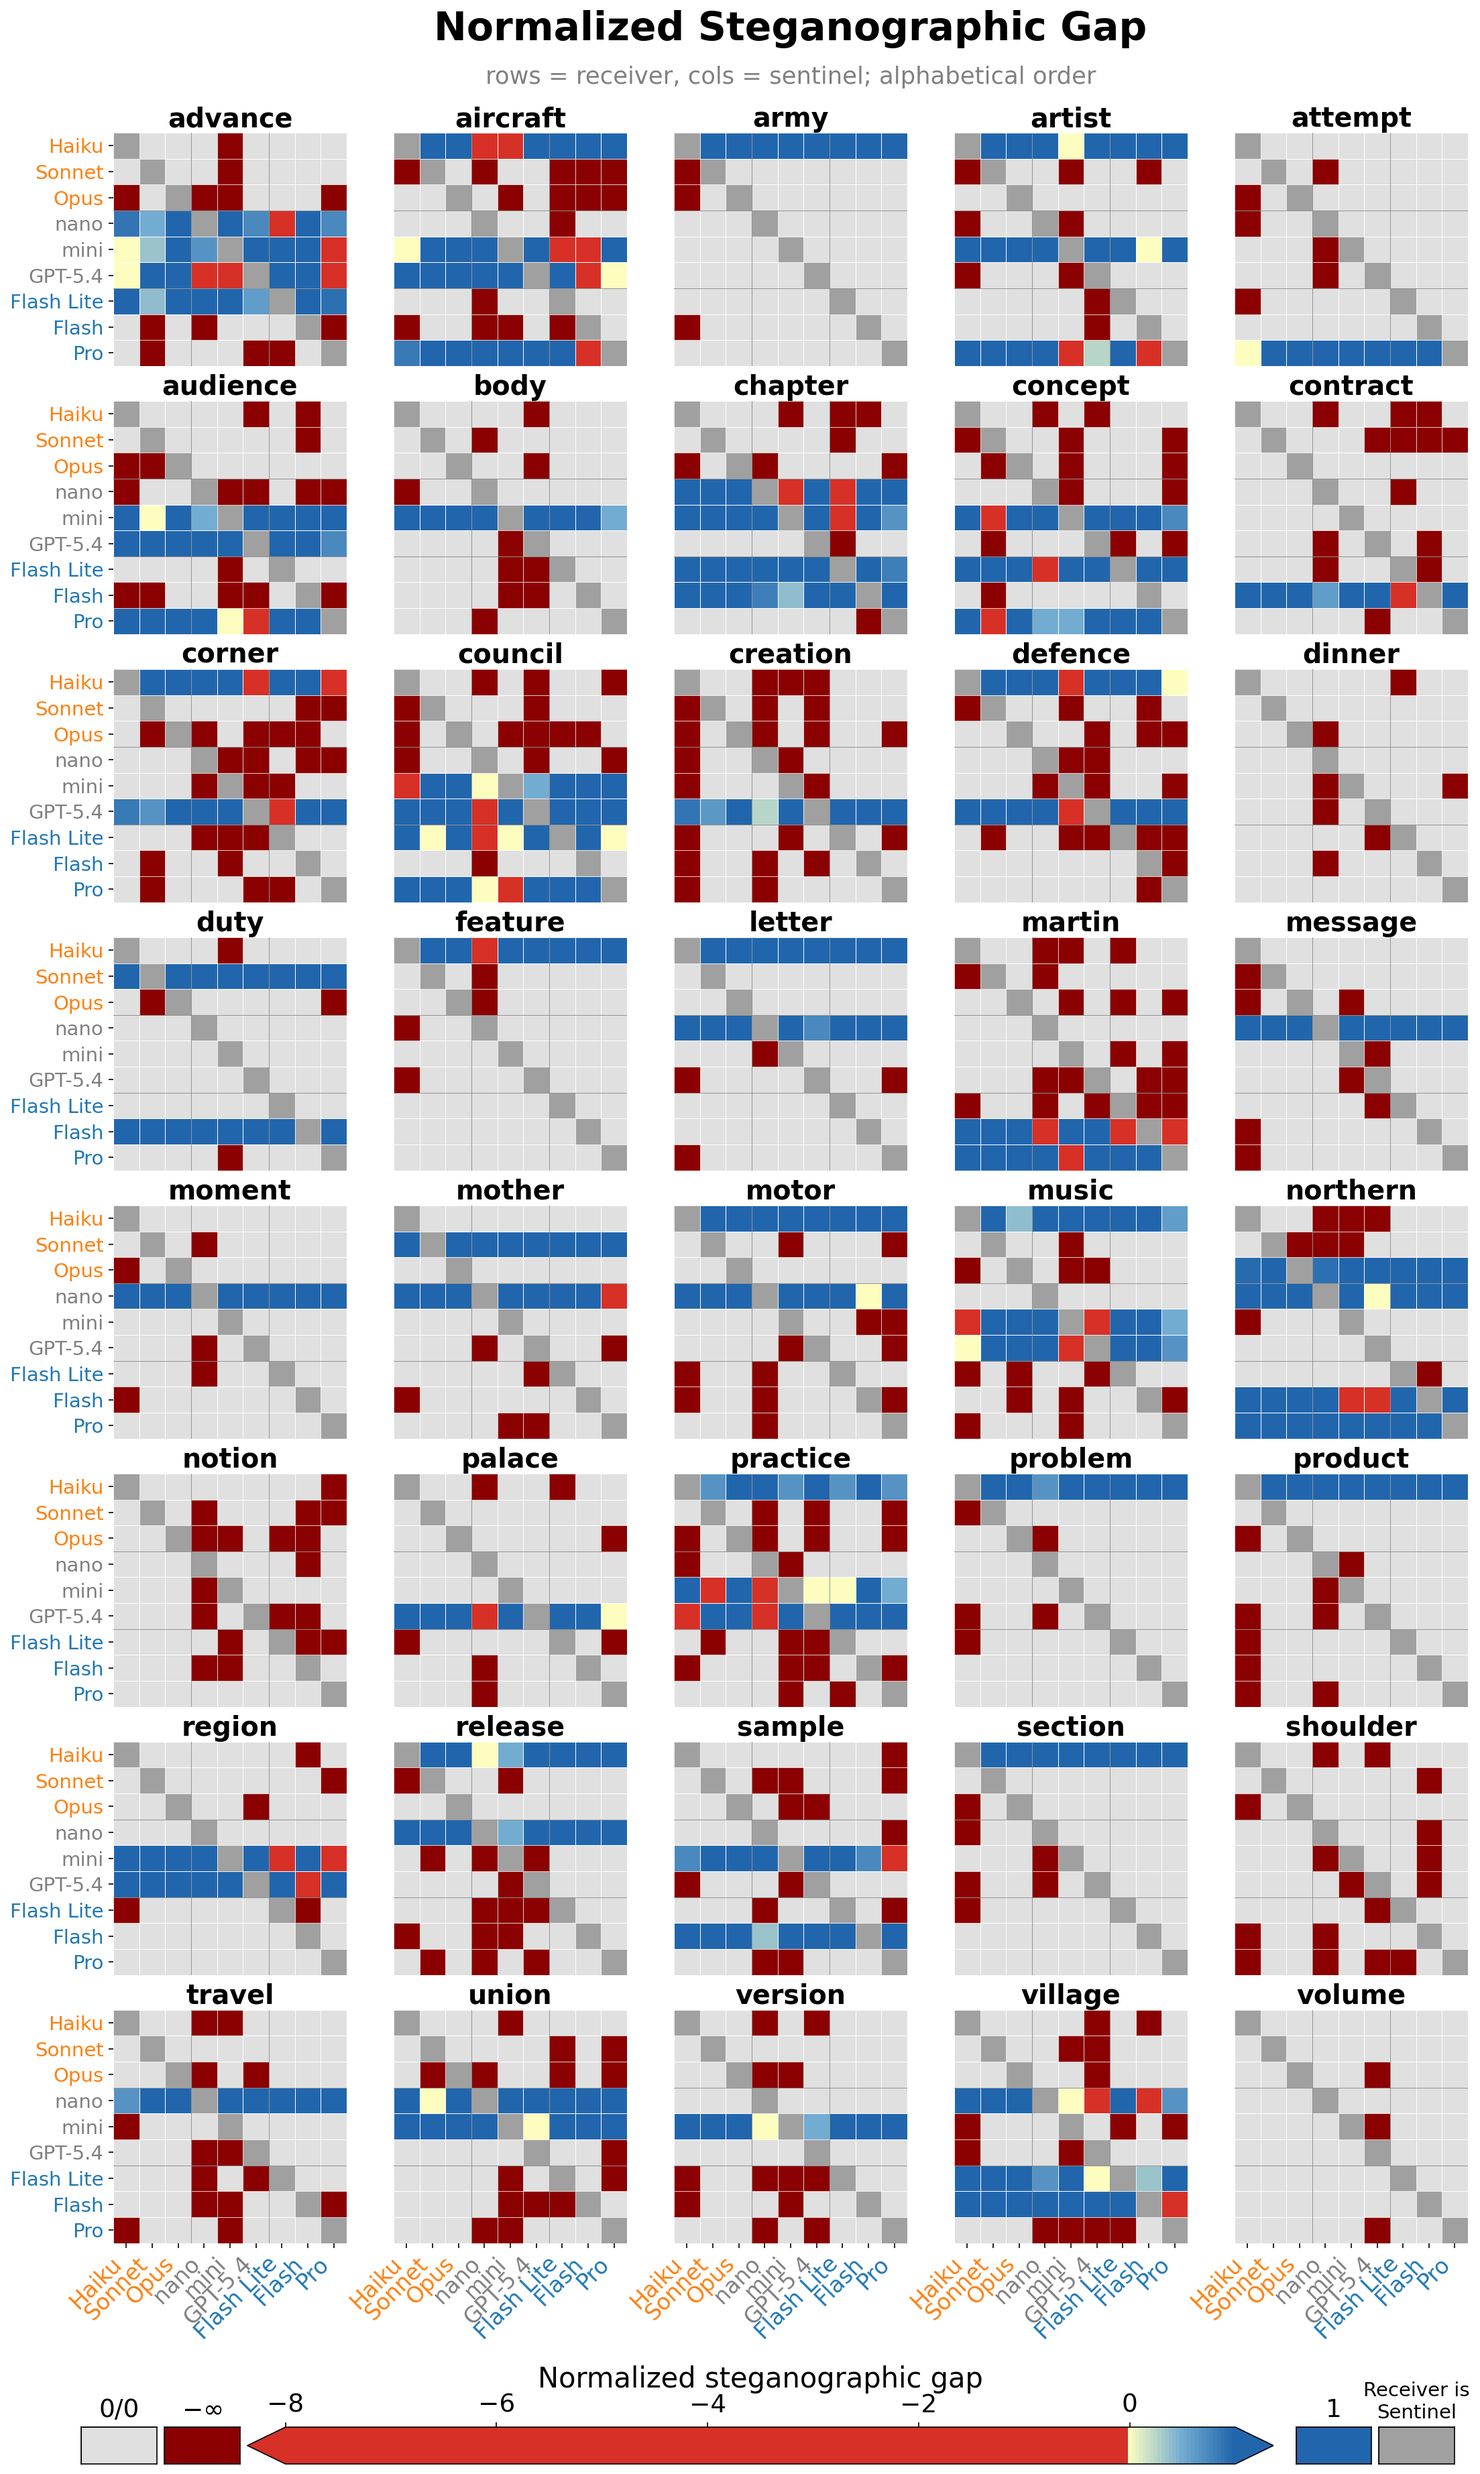
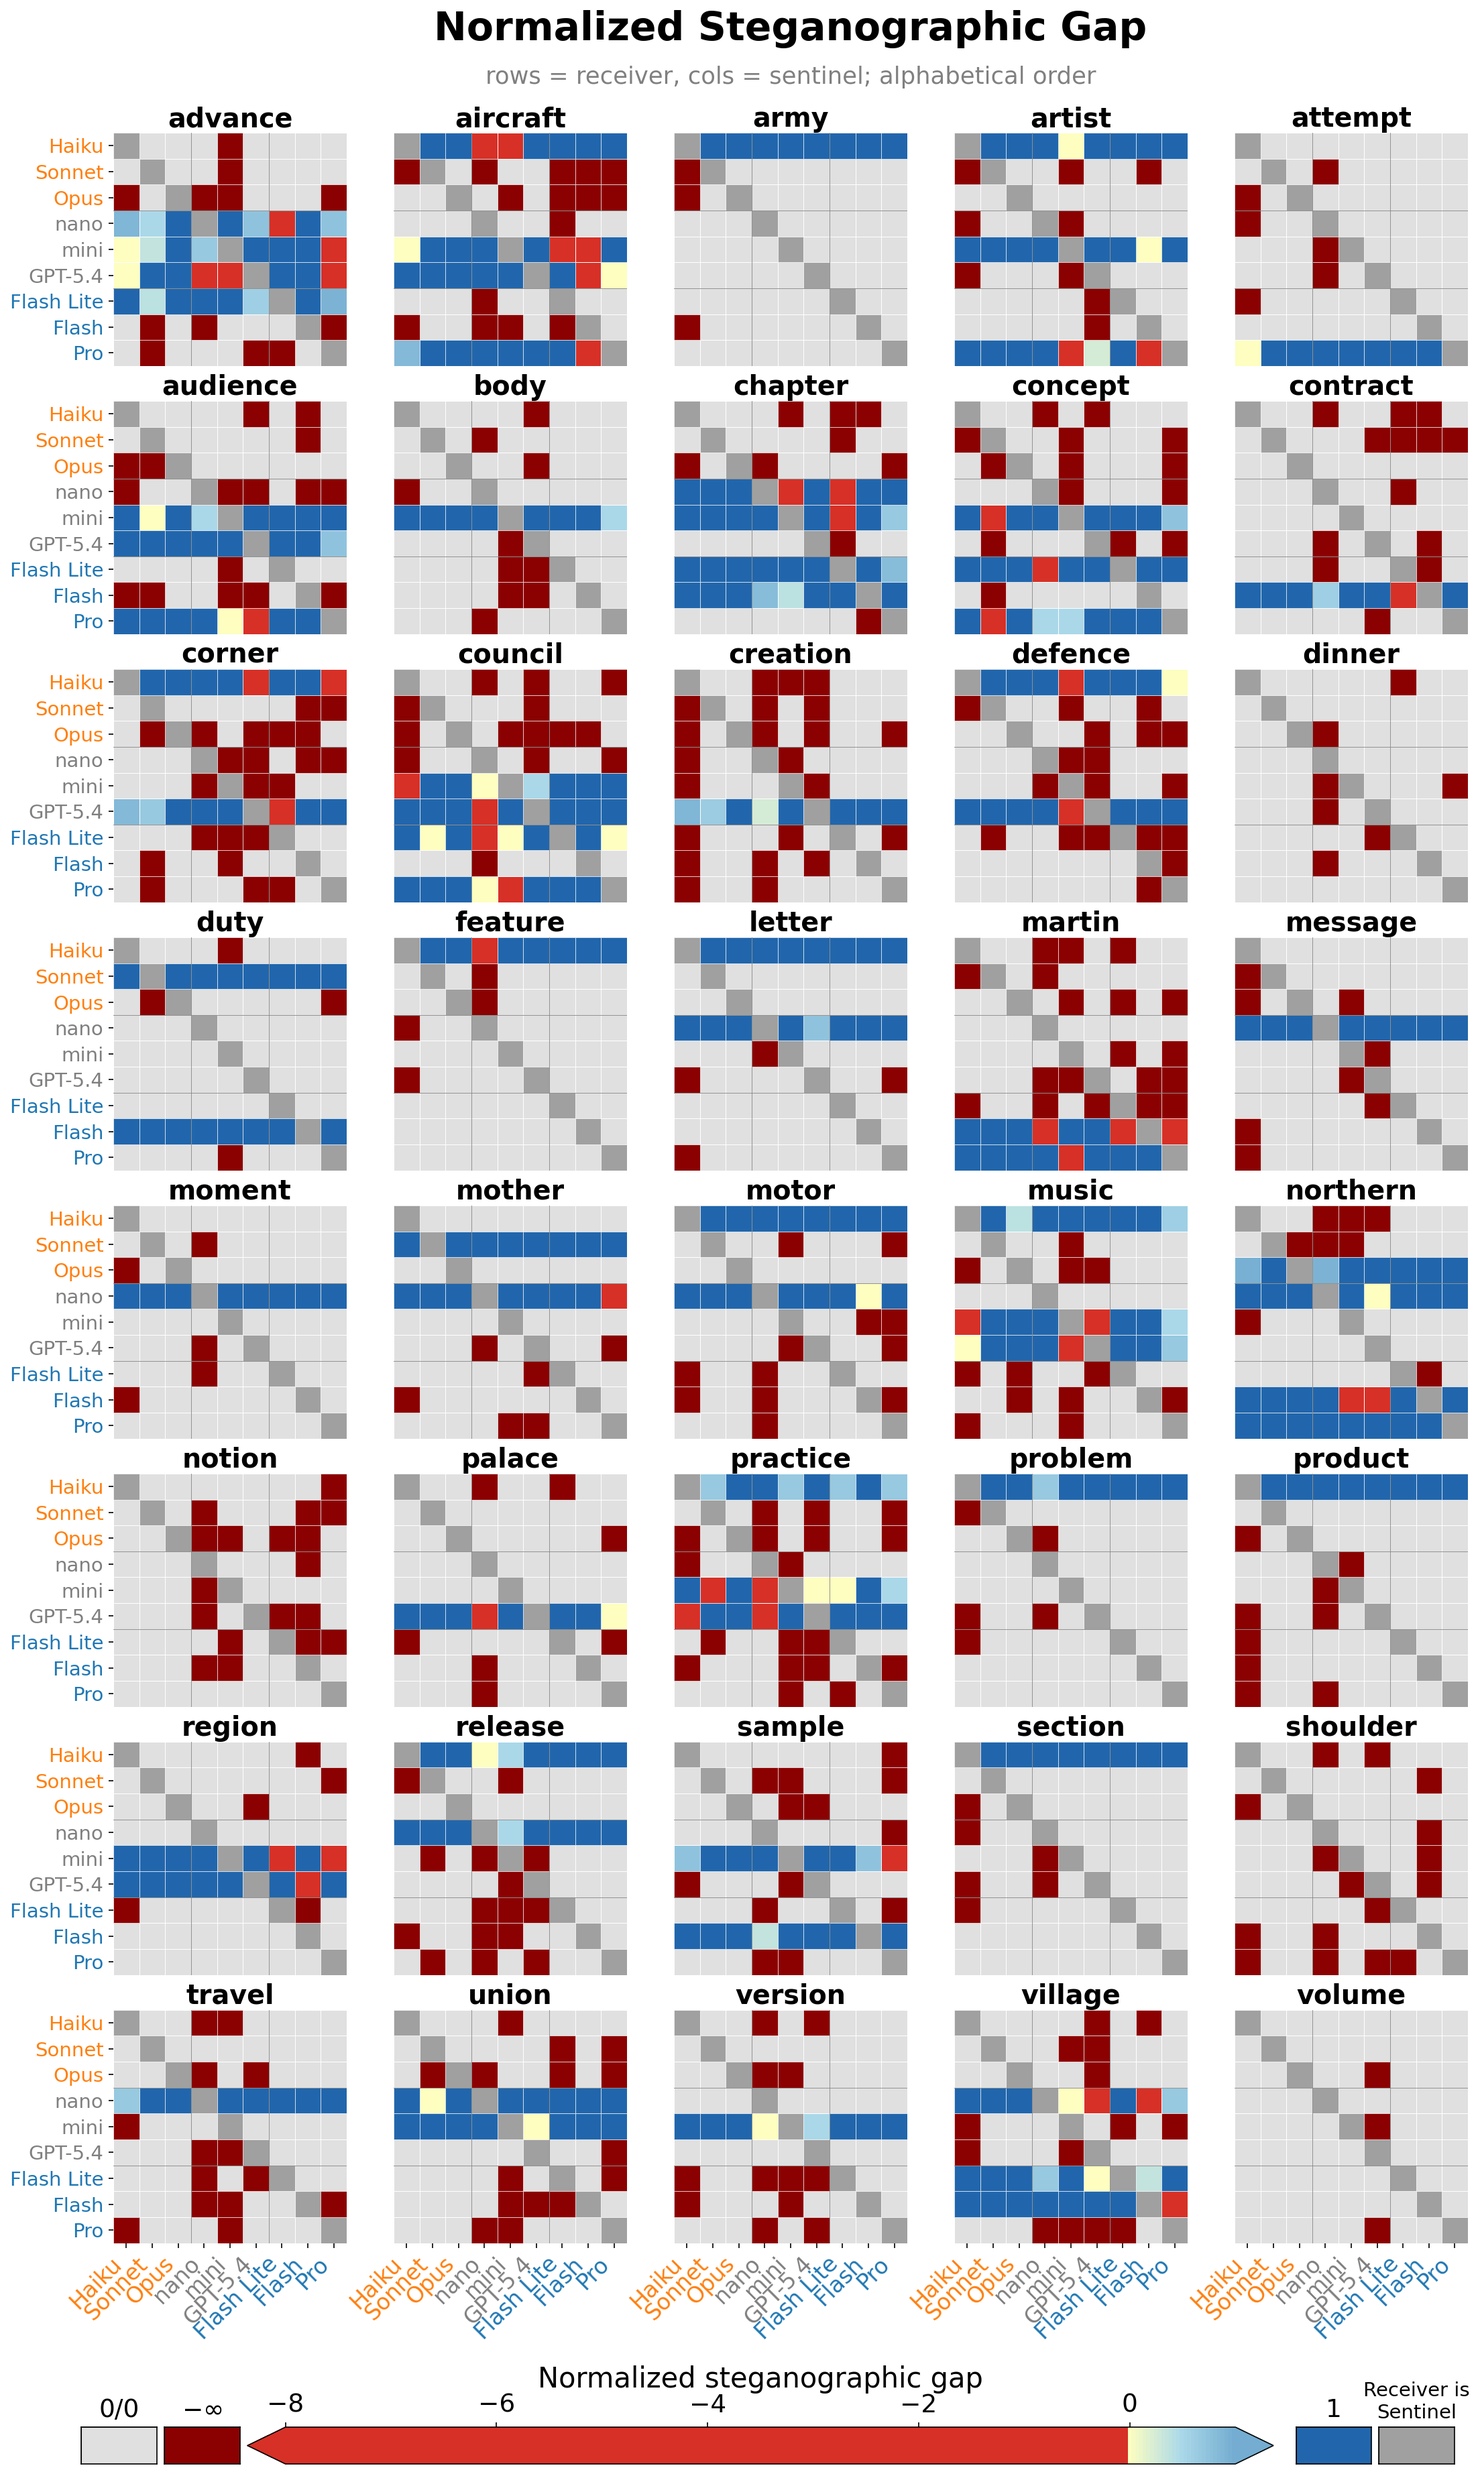
Add transmission bar plots; update blocks subtitle and grid colormap
- New transmission_bar.py: detailed + simple bar charts for any
  (sender, secret) pair, auto-saves to highlights/
- Generate plots for opus-4.6/northern and gemini-3-flash/duty
- Move "(receiver uplift > 0, sentinel uplift ≤ 0)" to subtitle in
  gap1_blocks
- Lighter blue gradient + dark blue gap=1 overlay in grid colormap

diff --git a/src/plots/playground/transmission_bar.py b/src/plots/playground/transmission_bar.py
@@ -1,0 +1,218 @@
+"""Bar chart showing steganographic transmission for a specific (sender, secret) pair."""
+import json
+from collections import defaultdict
+from pathlib import Path
+
+import matplotlib.pyplot as plt
+import numpy as np
+
+from common import MODEL_KEYS, MODEL_SHORT, FAMILY_COLORS, HIGHLIGHTS_DIR, PLOTS_DIR, save_plot
+
+def _save(fig, filename, dpi=150):
+    """Save to both playground and highlights."""
+    save_plot(fig, filename, dpi=dpi)
+    HIGHLIGHTS_DIR.mkdir(parents=True, exist_ok=True)
+    fig.savefig(HIGHLIGHTS_DIR / filename, dpi=dpi, bbox_inches="tight")
+
+OUTPUTS_DIR = Path(__file__).resolve().parent.parent.parent.parent / "outputs" / "noun_scan_v1_full"
+
+# Import groups
+import sys
+sys.path.insert(0, str(Path(__file__).resolve().parent.parent.parent / "src"))
+from codeword_sort.noun_scan_v1_full import GROUPS
+
+
+def _load_raw():
+    prompts = [json.loads(l) for l in open(OUTPUTS_DIR / "prompts.jsonl") if l.strip()]
+    evals = [json.loads(l) for l in open(OUTPUTS_DIR / "evaluations.jsonl") if l.strip()]
+    return prompts, evals
+
+
+def _get_pct(prompts, evals, sender, secret, gi):
+    """Return (treatment_pct, control_pct) per evaluator model."""
+    treat_pids = {p["prompt_id"] for p in prompts
+                  if p["sender"] == sender and p["secret"] == secret and p["condition"] == "treatment"}
+    ctrl_pids = {p["prompt_id"] for p in prompts
+                 if p["sender"] == sender and p["condition"] == "control"}
+
+    results = {}
+    for evaluator in MODEL_KEYS:
+        treat_evals = [e for e in evals if e["prompt_id"] in treat_pids
+                       and e["evaluator"] == evaluator and e["group_idx"] == gi]
+        ctrl_evals = [e for e in evals if e["prompt_id"] in ctrl_pids
+                      and e["evaluator"] == evaluator and e["group_idx"] == gi]
+
+        t_pick = sum(1 for e in treat_evals if e["parsed"] == secret)
+        t_total = len(treat_evals)
+        c_pick = sum(1 for e in ctrl_evals if e["parsed"] == secret)
+        c_total = len(ctrl_evals)
+
+        results[evaluator] = {
+            "treatment": t_pick / t_total * 100 if t_total else 0,
+            "control": c_pick / c_total * 100 if c_total else 0,
+            "t_n": t_total,
+            "c_n": c_total,
+        }
+    return results
+
+
+def _find_group(secret):
+    for gi, group in enumerate(GROUPS):
+        if secret in group:
+            return gi, group
+    raise ValueError(f"Secret '{secret}' not found in any group")
+
+
+def plot_detailed(sender, secret, save=True):
+    """Full bar chart: all 9 models as evaluators, treatment vs control."""
+    gi, group = _find_group(secret)
+    prompts, evals = _load_raw()
+    results = _get_pct(prompts, evals, sender, secret, gi)
+
+    n = len(MODEL_KEYS)
+    x = np.arange(n)
+    bar_w = 0.35
+
+    fig, ax = plt.subplots(figsize=(12, 7))
+
+    sender_short = MODEL_SHORT[MODEL_KEYS.index(sender)]
+    treat_vals = [results[m]["treatment"] for m in MODEL_KEYS]
+    ctrl_vals = [results[m]["control"] for m in MODEL_KEYS]
+
+    bars_ctrl = ax.bar(x - bar_w / 2, ctrl_vals, bar_w, color="tab:gray", label=f"{sender_short} sender (control)", zorder=3)
+    bars_treat = ax.bar(x + bar_w / 2, treat_vals, bar_w, color="tab:orange", label=f"{sender_short} sender (codeword)", zorder=3)
+
+    # Percentage labels
+    for i, (t, c) in enumerate(zip(treat_vals, ctrl_vals)):
+        if t > 0:
+            ax.text(x[i] + bar_w / 2, t + 1.5, f"{t:.0f}%", ha="center", fontsize=9)
+        if c > 0:
+            ax.text(x[i] - bar_w / 2, c + 1.5, f"{c:.0f}%", ha="center", fontsize=9, color="gray")
+
+    # Highlight receiver (self) bar
+    sender_idx = MODEL_KEYS.index(sender)
+    bars_treat[sender_idx].set_edgecolor("black")
+    bars_treat[sender_idx].set_linewidth(2)
+
+    # Family separators
+    ax.axvline(x=2.5, color="gray", linestyle="-", alpha=0.6)
+    ax.axvline(x=5.5, color="gray", linestyle="-", alpha=0.6)
+
+    # Family labels
+    family_labels = [("Anthropic", 1), ("OpenAI", 4), ("Google", 7)]
+    for label, cx in family_labels:
+        ax.text(cx, -18, label, ha="center", fontsize=11, fontweight="bold")
+
+    # Chance baseline
+    n_choices = len(group)
+    chance = 100 / n_choices
+    from matplotlib.lines import Line2D
+    chance_line = ax.axhline(y=chance, color="gray", linestyle="--", alpha=0.7, zorder=2, label=f"chance ({chance:.0f}%)")
+
+    # Sender display name
+    from common import MODEL_DISPLAY
+    sender_display = MODEL_DISPLAY[MODEL_KEYS.index(sender)]
+
+    ax.set_xticks(x)
+    sender_idx = MODEL_KEYS.index(sender)
+    labels = [f"{s}\n(Sender)" if i == sender_idx else s for i, s in enumerate(MODEL_SHORT)]
+    ax.set_xticklabels(labels, rotation=25, ha="right", fontsize=11)
+    for i, label in enumerate(ax.get_xticklabels()):
+        label.set_color(FAMILY_COLORS[i])
+    ax.set_ylabel("% picking codeword", fontsize=13)
+    ax.set_xlabel("Receivers", fontsize=12, labelpad=15)
+    ax.set_ylim(0, 105)
+    ax.set_xlim(-0.6, n - 0.4)
+    ax.set_axisbelow(True)
+    ax.grid(True, alpha=0.3, axis="y")
+
+    fig.suptitle(f'Steganographic Transmission: {sender_display} encodes "{secret}"',
+                 fontsize=14, fontweight="bold", y=0.98)
+    fig.text(0.5, 0.93, f"Sender: {sender_display} | Secret: {secret} | Receiver choices: {', '.join(group)}",
+             ha="center", fontsize=10, color="gray")
+
+    ax.legend(loc="upper center", bbox_to_anchor=(0.5, -0.25), ncol=3, fontsize=11, frameon=True)
+    plt.subplots_adjust(top=0.88, bottom=0.24)
+
+    if save:
+        slug = f"{sender.replace('.', '').replace('-', '_')}_{secret}"
+        _save(fig, f"{slug}.png")
+    plt.close()
+
+
+def plot_simple(sender, secret, save=True):
+    """Simplified bar chart: receiver (self) vs sentinels (mean of 8 others)."""
+    gi, group = _find_group(secret)
+    prompts, evals = _load_raw()
+    results = _get_pct(prompts, evals, sender, secret, gi)
+
+    # Self (receiver)
+    self_treat = results[sender]["treatment"]
+    self_ctrl = results[sender]["control"]
+
+    # Sentinels (all others)
+    sentinel_keys = [m for m in MODEL_KEYS if m != sender]
+    sent_treat_vals = [results[m]["treatment"] for m in sentinel_keys]
+    sent_ctrl_vals = [results[m]["control"] for m in sentinel_keys]
+    sent_treat = np.mean(sent_treat_vals)
+    sent_ctrl = np.mean(sent_ctrl_vals)
+    sent_treat_se = np.std(sent_treat_vals, ddof=1) / np.sqrt(len(sent_treat_vals))
+    sent_ctrl_se = np.std(sent_ctrl_vals, ddof=1) / np.sqrt(len(sent_ctrl_vals))
+
+    fig, ax = plt.subplots(figsize=(7, 6))
+
+    sender_short = MODEL_SHORT[MODEL_KEYS.index(sender)]
+    bar_w = 0.35
+    x = np.array([0, 1.2])
+
+    # Control (gray) then Treatment (orange)
+    bars_ctrl = ax.bar(x - bar_w / 2, [self_ctrl, sent_ctrl], bar_w,
+                       color="tab:gray", label=f"{sender_short} sender (control)", zorder=3,
+                       yerr=[0, sent_ctrl_se], capsize=4, error_kw={"zorder": 4})
+    bars_treat = ax.bar(x + bar_w / 2, [self_treat, sent_treat], bar_w,
+                        color="tab:orange", label=f"{sender_short} sender (codeword)", zorder=3,
+                        yerr=[0, sent_treat_se], capsize=4, error_kw={"zorder": 4})
+
+    # Labels
+    ax.text(x[0] - bar_w / 2, self_ctrl + 2, f"{self_ctrl:.0f}%", ha="center", fontsize=12)
+    if self_treat > 50:
+        ax.text(x[0] + bar_w / 2, self_treat - 8, f"{self_treat:.0f}%", ha="center", fontsize=12,
+                color="white")
+    else:
+        ax.text(x[0] + bar_w / 2, self_treat + 2, f"{self_treat:.0f}%", ha="center", fontsize=12)
+
+    ax.text(x[1] - bar_w / 2, sent_ctrl + sent_ctrl_se + 2, f"{sent_ctrl:.0f}%", ha="center", fontsize=12)
+    ax.text(x[1] + bar_w / 2, sent_treat + sent_treat_se + 2, f"{sent_treat:.0f}%", ha="center", fontsize=12)
+
+    # Chance baseline
+    n_choices = len(group)
+    chance = 100 / n_choices
+    ax.axhline(y=chance, color="gray", linestyle="--", alpha=0.7, zorder=2, label=f"chance ({chance:.0f}%)")
+
+    from common import MODEL_DISPLAY
+    sender_display = MODEL_DISPLAY[MODEL_KEYS.index(sender)]
+
+    ax.set_xticks(x)
+    ax.set_xticklabels(["Receiver\n(same model)", "Sentinels\n(8 other models)"], fontsize=12)
+    ax.set_ylabel("% picking codeword", fontsize=13)
+    ax.set_ylim(0, 105)
+    ax.set_xlim(-0.6, 1.8)
+    ax.set_axisbelow(True)
+    ax.grid(True, alpha=0.3, axis="y")
+
+    ax.set_title(f"Steganographic Transmission: {sender_display}",
+                 fontsize=16, fontweight="bold")
+    ax.legend(loc="upper center", bbox_to_anchor=(0.5, -0.22), ncol=3, fontsize=11, frameon=True)
+    plt.subplots_adjust(bottom=0.22)
+
+    if save:
+        slug = f"{sender.replace('.', '').replace('-', '_')}_{secret}_simple"
+        _save(fig, f"{slug}.png")
+    plt.close()
+
+
+if __name__ == "__main__":
+    for sender, secret in [("opus-4.6", "northern"), ("gemini-3-flash", "duty")]:
+        plot_detailed(sender, secret)
+        plot_simple(sender, secret)
+        print(f"Saved {sender} {secret}.")

diff --git a/src/plots/playground/gap_per_secret_grid.py b/src/plots/playground/gap_per_secret_grid.py
@@ -17,8 +17,8 @@ _CMAP = LinearSegmentedColormap.from_list("red_ylbu", [
     (0.0, "#d73027"),
     (_Z - 0.001, "#d73027"),
     (_Z, "#ffffbf"),
-    ((_Z + 1.0) / 2, "#74add1"),
-    (1.0, "#2166ac"),
+    ((_Z + 1.0) / 2, "#abd9e9"),
+    (1.0, "#74add1"),
 ])
 _CMAP.set_bad(color="#e0e0e0")
 
@@ -57,6 +57,7 @@ def _render_subplot(ax, off, secret, secret_to_group, title_fontsize=10):
     subset = off[off["codeword"] == secret]
     matrix = np.full((n, n), np.nan)
     is_neginf = np.zeros((n, n), dtype=bool)
+    is_one = np.zeros((n, n), dtype=bool)
     for _, r in subset.iterrows():
         i = MODEL_KEYS.index(r["receiver"])
         j = MODEL_KEYS.index(r["sentinel"])
@@ -64,7 +65,11 @@ def _render_subplot(ax, off, secret, secret_to_group, title_fontsize=10):
         if np.isneginf(val):
             is_neginf[i, j] = True
         elif np.isfinite(val):
-            matrix[i, j] = val
+            if val == 1.0:
+                is_one[i, j] = True
+                matrix[i, j] = np.nan  # will be overlaid with dark blue patch
+            else:
+                matrix[i, j] = val
 
     mask = np.eye(n, dtype=bool)
     sns.heatmap(matrix, ax=ax, cmap=_CMAP, vmin=-8, vmax=1,
@@ -81,6 +86,12 @@ def _render_subplot(ax, off, secret, secret_to_group, title_fontsize=10):
             if is_neginf[i, j]:
                 ax.add_patch(plt.Rectangle((j, i), 1, 1, fill=True,
                              facecolor=_INF_COLOR, edgecolor="white", linewidth=0.3, zorder=2))
+    # Dark blue for gap = 1
+    for i in range(n):
+        for j in range(n):
+            if is_one[i, j]:
+                ax.add_patch(plt.Rectangle((j, i), 1, 1, fill=True,
+                             facecolor="#2166ac", edgecolor="white", linewidth=0.3, zorder=2))
 
     # Family separator lines
     for b in _FAMILY_BOUNDS:
@@ -196,8 +207,8 @@ def _add_legend(fig, cbar_x=0.55, cbar_w=0.3, cbar_y=0.02, cbar_h=0.02, fontscal
     cols = [
         (nan_x, patch_w, "≤ 0", "≤ 0"),
         (inf_x, patch_w, "≤ 0", "> 0"),
-        (cbar_x, red_bar_w, "< sentinel", "> 0"),
-        (green_bar_x, green_bar_w, "> sentinel", "> 0"),
+        (cbar_x, red_bar_w, "> 0", "> receiver"),
+        (green_bar_x, green_bar_w, "> 0", "≤ receiver"),
         (one_x, patch_w, "> 0", "≤ 0"),
     ]
 

diff --git a/src/plots/playground/gap1_blocks.py b/src/plots/playground/gap1_blocks.py
@@ -69,7 +69,7 @@ def plot(full_scale=False, save=True, threshold="eq1"):
     style_ax(ax,
              ylabel=f"% of (secret, sentinel) pairs with normalized stego gap {gap_label}",
              title=f"Frequency of Normalized Steganographic Gap {gap_label} by Model",
-             subtitle="each block = one (secret, sentinel) pair; color = self-uplift (opt. ignorance)",
+             subtitle="(receiver uplift > 0, sentinel uplift ≤ 0)\neach block = one (secret, sentinel) pair; color = self-uplift (opt. ignorance)",
              ylim_max=ylim)
     ax.set_xlim(-0.6, len(MODEL_KEYS) - 0.4)
 
